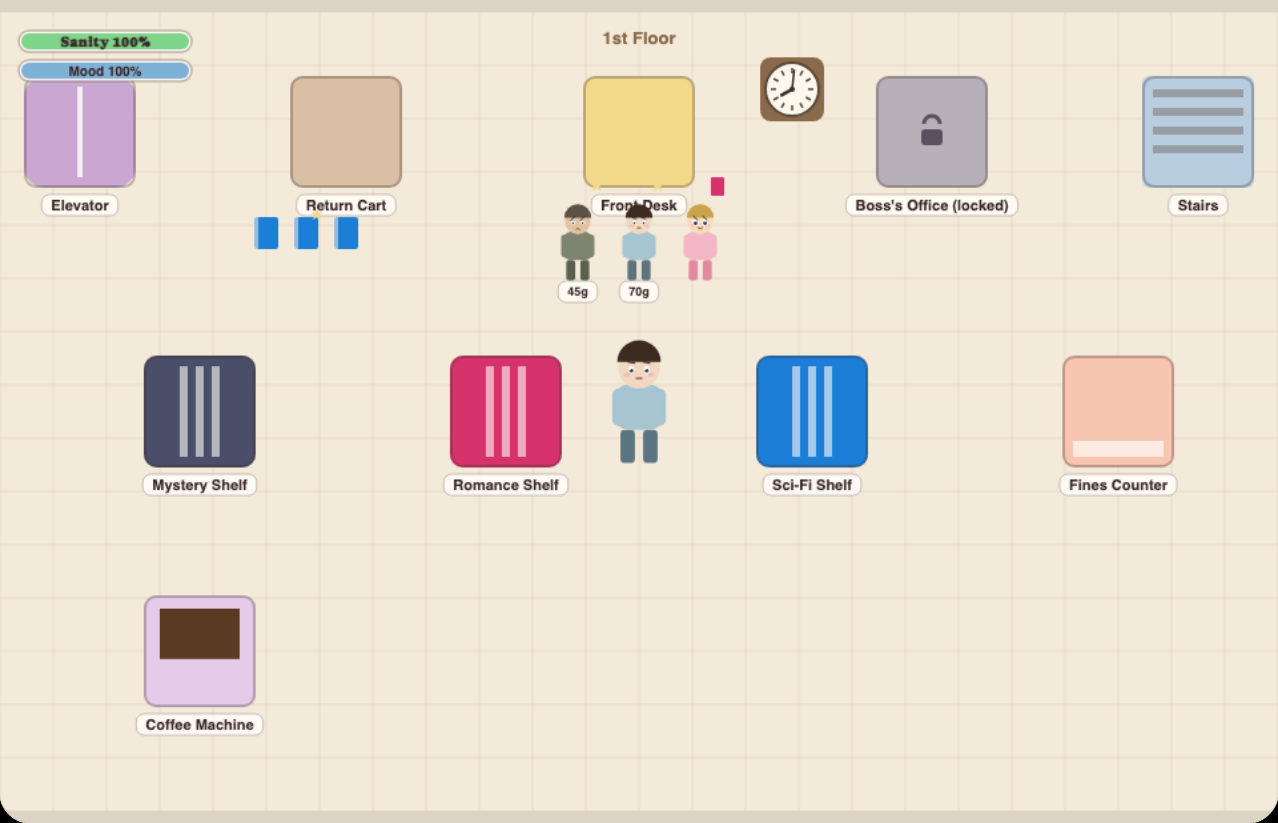
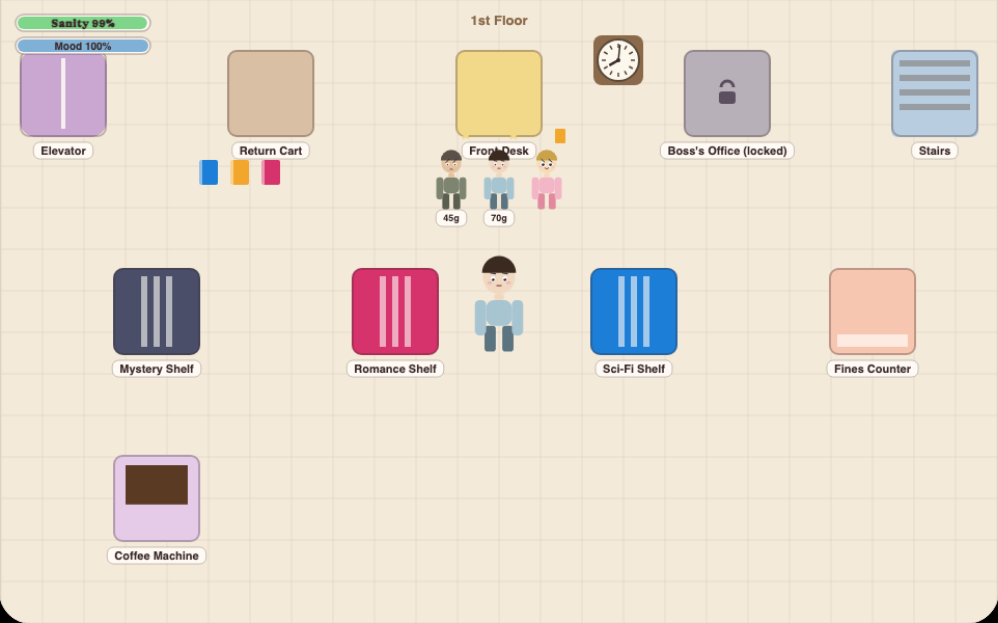
Redesign Library Shift's character body shape
The original body was a blob: arms sat hidden underneath the torso
rectangle's width, and the head overlapped straight into the torso with
no neck. Narrowed the torso so arms are fully visible outside it and
added a neck gap, per the user's "articulated humanoid" direction.
Recaptured the Projects-grid screenshot with the new shape.

Claude-Session: https://claude.ai/code/session_01LWpfsYwmg5iwmhqRUmVogX

diff --git a/web/static/js/library-game.js b/web/static/js/library-game.js
@@ -360,11 +360,22 @@ export function drawLibraryPerson(ctx, x, y, opts = {}) {
   const s = (opts.scale ?? 1) * LIBRARY_PERSON_SCALE;
   const pants = personality.pantsColor || personality.bodyColor;
 
+  // Legs.
   drawRoundRect(ctx, x - 9 * s, y - 4 * s, 7 * s, 16 * s, 2 * s, pants);
   drawRoundRect(ctx, x + 2 * s, y - 4 * s, 7 * s, 16 * s, 2 * s, pants);
-  drawRoundRect(ctx, x - 13 * s, y - 24 * s, 7 * s, 18 * s, 3 * s, personality.bodyColor);
-  drawRoundRect(ctx, x + 6 * s, y - 24 * s, 7 * s, 18 * s, 3 * s, personality.bodyColor);
-  drawRoundRect(ctx, x - 12 * s, y - 26 * s, 24 * s, 22 * s, 7 * s, personality.bodyColor);
+
+  // Arms — positioned fully outside the torso's width below (touching its
+  // edge, not underneath it), so they read as distinct limbs instead of
+  // being swallowed by the torso's rounded corners into one blob.
+  drawRoundRect(ctx, x - 15 * s, y - 20 * s, 7 * s, 22 * s, 3 * s, personality.bodyColor);
+  drawRoundRect(ctx, x + 8 * s, y - 20 * s, 7 * s, 22 * s, 3 * s, personality.bodyColor);
+
+  // Torso (shirt) — narrower than the arm span above, on purpose.
+  drawRoundRect(ctx, x - 8 * s, y - 20 * s, 16 * s, 16 * s, 5 * s, personality.bodyColor);
+
+  // Neck — a visible skin-tone gap between the head and shoulders, so the
+  // head doesn't sit flush on the torso with no separation.
+  drawRoundRect(ctx, x - 3 * s, y - 24 * s, 6 * s, 4 * s, 1.5 * s, personality.headColor);
 
   ctx.fillStyle = personality.headColor;
   ctx.beginPath();

diff --git a/docs/features/library-game.md b/docs/features/library-game.md
@@ -26,6 +26,25 @@ payout) and dark mode, both with zero console errors. Recipe/volume/
 skill-check magnitudes remain illustrative/tunable, as called out throughout
 this doc — nothing in that tuning blocks calling this Shipped.
 
+**v1.1 character body redesign** — the user tried the shipped game and
+reported not liking the character shape; they confirmed they wanted an
+"articulated humanoid" (a visible neck/shoulders and distinct arms, not a
+chibi/rounder direction) when asked to pick a direction. The root cause
+of the original blob look: `drawLibraryPerson`'s arm rectangles sat
+*underneath* the torso rectangle's x-range (only a ~1px sliver poking out
+past the torso's rounded corners), and the head circle's bottom edge
+overlapped directly into the torso's top edge with no gap — so arms were
+functionally invisible and there was no neck. Fixed by narrowing the
+torso so the arms sit fully outside its width (touching its edge, not
+hidden behind it) and inserting a small skin-tone neck rectangle between
+the head and the torso. Re-verified via a cropped Playwright screenshot
+at native pixel size: both arms and a clear neck are now visible on the
+player and every patron/personality template (they all share this one
+draw function). The `/projects` grid screenshot
+(`web/static/images/library/screenshot.png`) was recaptured with the new
+shape. No logic changed — `node --test`/`go test ./...` unaffected (450/450
+JS, Go green).
+
 ## Summary
 
 A third canvas mini-game, `/library-game`, sibling to Kitchen Shift and the
